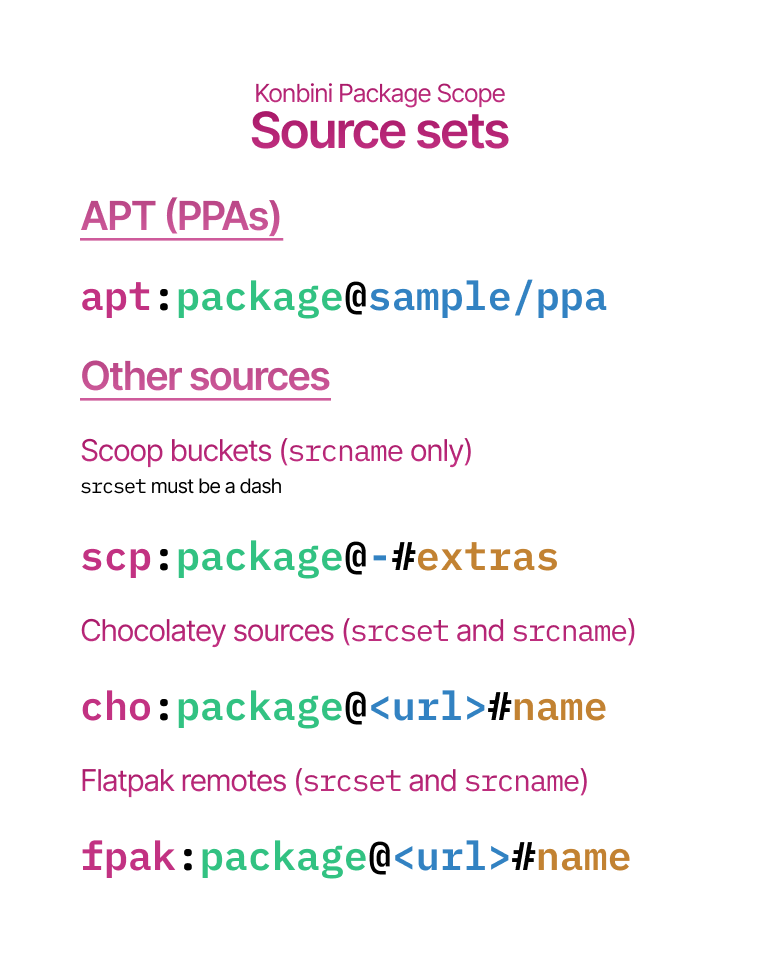
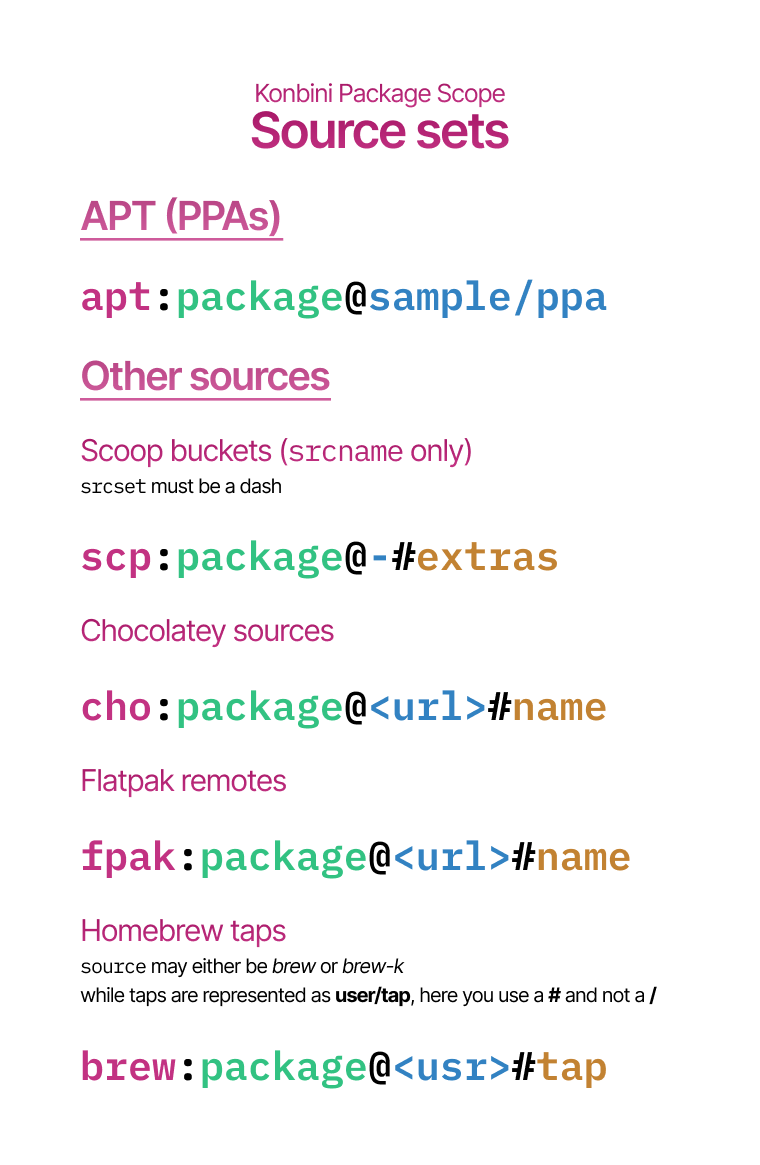
smol

Changed region(s): [[0.0908, 0.4555, 0.8474, 0.7592], [0.0908, 0.0607, 0.8171, 0.4251], [0.0908, 0.7895, 0.8474, 0.9414]]

diff --git a/packages/client/src/commands/install.ts b/packages/client/src/commands/install.ts
@@ -16,6 +16,7 @@ import { getPlatform } from "shared/api/platform";
 import { FILENAMES } from "shared/constants";
 import { assertIntegritySHA, konbiniHash, assertIntegrityPGP } from "shared/security";
 import { logAction } from "shared/api/telemetry";
+import { Unpack } from "../../../konpak/src/unpack";
 
 async function installSingleExecutable(params: {
     filePath: string;
@@ -108,8 +109,8 @@ export async function installPackage(
     pkgName: string,
     method: "install" | "update" | "reinstall" = "install",
 ) {
-    if (pkgName.startsWith("grab:")) {
-        const possiblyKps = pkgName.split("grab:")[1];
+    if (pkgName.startsWith("grab+")) {
+        const possiblyKps = pkgName.split("grab+")[1];
         if (!isKps(possiblyKps))
             throw `Cannot grab "${possiblyKps}", it's an invalid package scope.`;
         const kps = parseKps(possiblyKps);
@@ -125,6 +126,7 @@ export async function installPackage(
             pkgName: kps.value,
             manifest: {
                 name: kps.value,
+                // idk man this needs a value in order not to fail
                 author_id: "kbi.grabbed",
             } as any as KONBINI_MANIFEST,
             kps,
@@ -266,6 +268,12 @@ export async function installPackage(
     };
     writeLockfile(lockfile, pkgName, manifest.author_id);
     konsole.dbg("Lockfile written.");
+
+    if (readFileSync(outputPath).slice(0, 4).toString() == "KPAK") {
+        konsole.dbg("This is a Konpak. Unpacking...");
+        Unpack(outputPath);
+        konsole.dbg("Konpak unpacked.");
+    }
 
     // generate launchpad shortcut
     writeLaunchpadShortcut(pkgName, manifest.author_id, outputPath);

diff --git a/packages/shared/types/manifest.ts b/packages/shared/types/manifest.ts
@@ -35,6 +35,8 @@ export const KPS_SOURCES = [
 /** A KPS source. */
 export type KPS_SOURCE = (typeof KPS_SOURCES)[number];
 
+export type SPECIFIABLE_KPS_SOURCE = "cho" | "scp" | "fpak" | "brew" | "brew-k";
+
 /** A Konbini Package Scope (KPS). It follows either one of these formats:
  *
  *  `manager:pkg_name`
@@ -51,9 +53,7 @@ export type KPS_SOURCE = (typeof KPS_SOURCES)[number];
 export type KONBINI_PKG_SCOPE =
     | `${KPS_SOURCE}:${string}`
     | `apt:${string}@${string}`
-    | `cho:${string}@${string}#${string}`
-    | `scp:${string}@${string}#${string}`
-    | `fpak:${string}@${string}#${string}`;
+    | `${SPECIFIABLE_KPS_SOURCE}:${string}@${string}#${string}`;
 
 /** A parsed KPS. */
 export type PARSED_KPS =
@@ -81,7 +81,7 @@ export type PARSED_KPS =
 /** A parsed KPS containing a srcset.  */
 export type PARSED_SPECIFIC_KPS = {
     /** Source. */
-    src: "apt" | "scp" | "cho" | "fpak";
+    src: "apt" | SPECIFIABLE_KPS_SOURCE;
     /** Value. Package ID for the non-Konbini host. */
     value: string;
     /** Command to be executed  */

diff --git a/packages/client/src/toolkit/aliased.ts b/packages/client/src/toolkit/aliased.ts
@@ -11,7 +11,7 @@ import {
     type KONBINI_PARSED_SCOPE,
     type KONBINI_PKG_SCOPE,
 } from "shared/types/manifest";
-import { normalize } from "@zakahacecosas/string-utils";
+import { normalize, validateAgainst } from "@zakahacecosas/string-utils";
 import { getPkgManifest } from "shared/api/core";
 import { constructKps, parseKps } from "shared/api/manifest";
 import { getPlatform } from "shared/api/platform";
@@ -83,6 +83,8 @@ export function installAliasedPackage(params: {
         if (kps.src === "cho") cmd = (n: string, u: string) => `choco source add -n=${n} -s="${u}"`;
         if (kps.src === "fpak")
             cmd = (n: string, u: string) => `flatpak remote-add --if-not-exists ${n} ${u}`;
+        if (validateAgainst(kps.src, ["brew", "brew-k"]))
+            cmd = (n: string, u: string) => `brew tap ${n}/${u}`;
 
         if (typeof cmd !== "function" || !cmd)
             throw `Impossible error, cmd used to handle package's srcset wasn't assigned. Something's wrong (and it's not you).`;

diff --git a/packages/konpak/src/unpack.ts b/packages/konpak/src/unpack.ts
@@ -42,7 +42,7 @@ export function Unpack(filepath: string) {
         try {
             renameSync(src, dst);
         } catch (e) {
-            console.error(`Error moving ${src} to ${dst}:`, e);
+            throw new Error(`Error moving ${src} to ${dst}: ${e}`);
         }
     }
 
